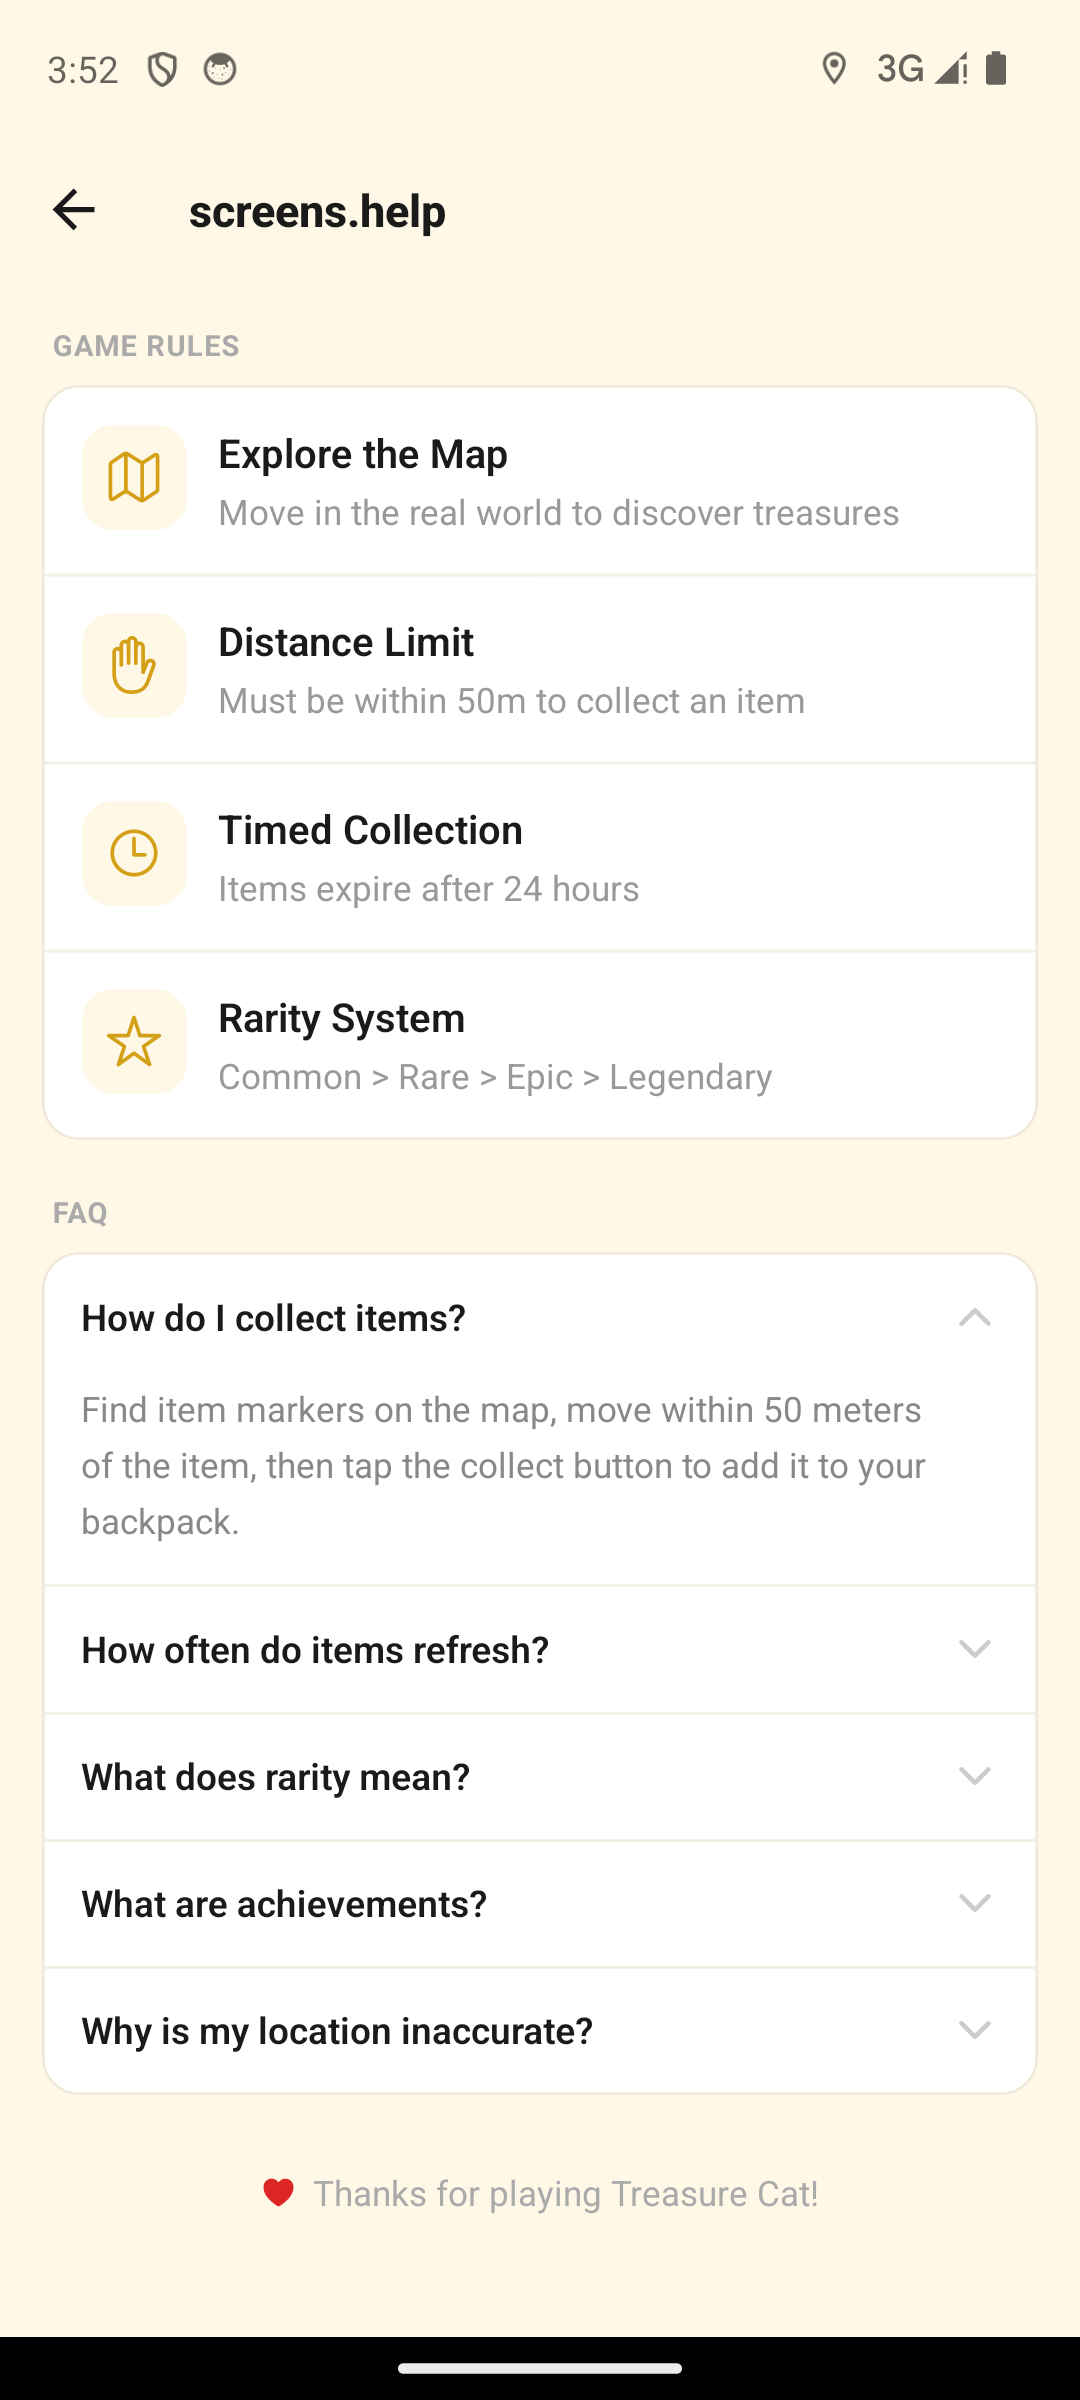
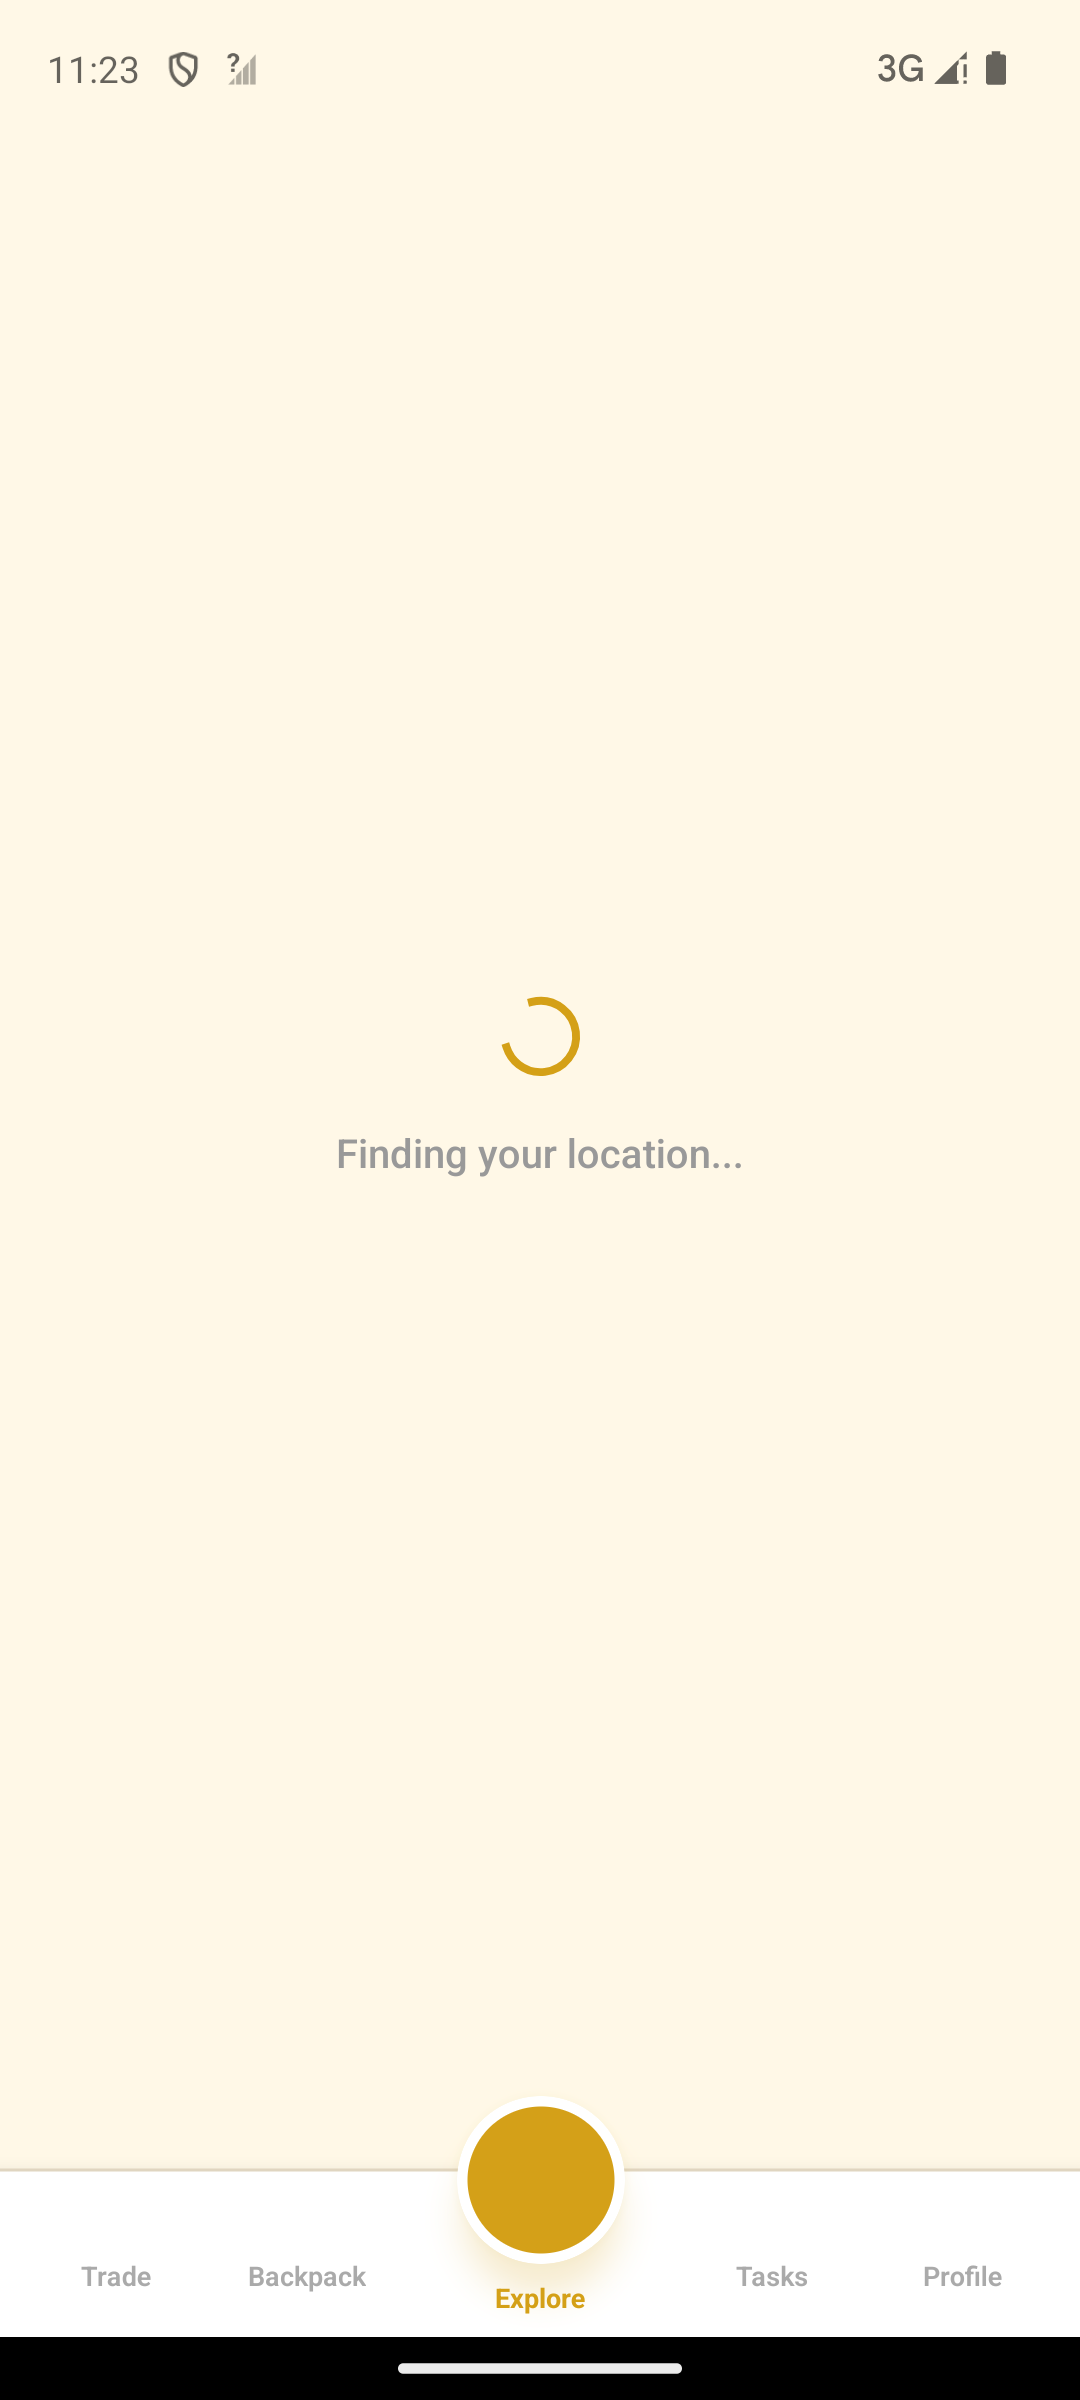
fix: add missing market translations and fix statistics key
- Add market.total and market.unique translations (en/ja)
- Fix screens.statistics → items.screens.statistics
- Update app/_layout.tsx
- Update app/item/[id].tsx

diff --git a/packages/mobile/app/_layout.tsx b/packages/mobile/app/_layout.tsx
@@ -97,7 +97,7 @@ function RootStack() {
         <Stack.Screen
           name="profile/stats"
           options={{
-            title: t('screens.statistics'),
+            title: t('items.screens.statistics'),
           }}
         />
         <Stack.Screen

diff --git a/packages/mobile/app/item/[id].tsx b/packages/mobile/app/item/[id].tsx
@@ -147,7 +147,7 @@ const getRarityName = (rarity: Rarity): string => {
       </View>
 
       <View style={styles.section}>
-        <Text style={styles.sectionTitle}>{t('screens.statistics').toUpperCase()}</Text>
+        <Text style={styles.sectionTitle}>{t('items.screens.statistics').toUpperCase()}</Text>
         <View style={styles.sectionCard}>
           <View style={styles.infoRow}>
             <View style={styles.infoIconRow}>